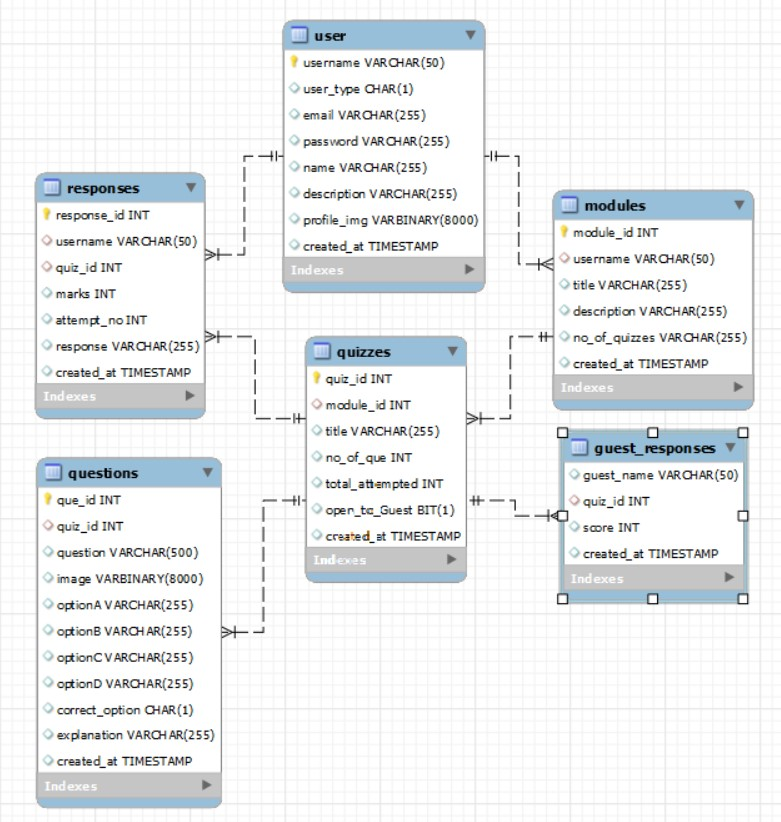
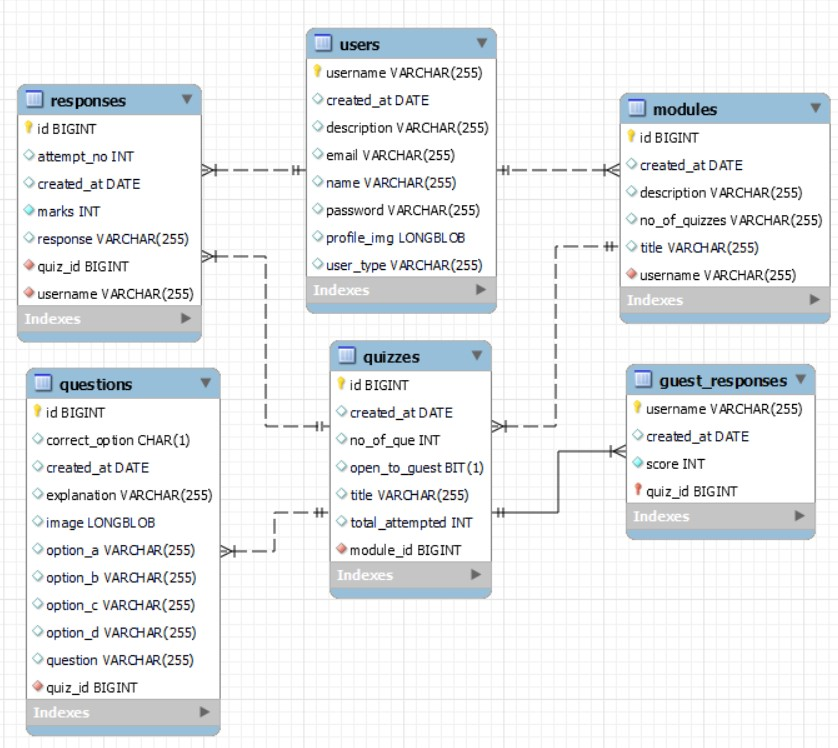
Entities Updated

diff --git a/quiz-management-system/src/main/java/com/app/entities/GuestEntity.java b/quiz-management-system/src/main/java/com/app/entities/GuestEntity.java
@@ -1,0 +1,49 @@
+package com.app.entities;
+
+import java.io.Serializable;
+import java.util.Objects;
+
+import javax.persistence.Embeddable;
+import javax.persistence.ForeignKey;
+import javax.persistence.JoinColumn;
+import javax.persistence.ManyToOne;
+
+import org.hibernate.annotations.ManyToAny;
+
+import lombok.AllArgsConstructor;
+import lombok.Getter;
+import lombok.NoArgsConstructor;
+import lombok.Setter;
+import lombok.ToString;
+
+
+@Getter
+@Setter
+@AllArgsConstructor
+@NoArgsConstructor
+@ToString(callSuper = true)
+@Embeddable
+public class GuestEntity implements Serializable {
+	@ManyToOne
+	@JoinColumn(name = "quiz_id", nullable = false, foreignKey = @ForeignKey(name = "fk_guestkey_quiz"))
+	private Quiz quiz;
+	
+	private String username;
+	
+	@Override
+	public int hashCode() {
+		return Objects.hash(username, quiz);
+	}
+	
+	@Override
+	public boolean equals(Object obj) {
+		if (this == obj)
+			return true;
+		if (obj == null)
+			return false;
+		if (getClass() != obj.getClass())
+			return false;
+		GuestEntity other = (GuestEntity) obj;
+		return Objects.equals(username, other.username) && Objects.equals(quiz, other.quiz);
+	}
+}

diff --git a/quiz-management-system/src/main/java/com/app/entities/User.java b/quiz-management-system/src/main/java/com/app/entities/User.java
@@ -12,17 +12,23 @@ import lombok.*;
 @Setter
 @AllArgsConstructor
 @NoArgsConstructor
-@ToString
-public class User {
-    @Id
+@ToString(callSuper = true)
+public class User{
+
+	@Id
     private String username;
+	
+    @Column(name = "user_type")
+    private String userType;
+
     private String email;
     private String password;
-    private String firstName;
-    private String lastName;
+    private String name;
+    private String description;
 
     @Lob
-    private byte[] profileImage;
+    @Column(name = "profile_img")
+    private byte[] profileImg;
 
     @Column(name = "created_at")
     private LocalDate createdAt;

diff --git a/quiz-management-system/src/main/java/com/app/entities/Response.java b/quiz-management-system/src/main/java/com/app/entities/Response.java
@@ -15,7 +15,9 @@ import lombok.*;
 @ToString(callSuper = true)
 public class Response extends BaseEntity{
 
-    private String username;
+    @ManyToOne
+    @JoinColumn(name = "username", nullable = false, foreignKey = @ForeignKey(name = "fk_response_user"))
+    private User user;
 
     @ManyToOne
     @JoinColumn(name = "quiz_id", nullable = false, foreignKey = @ForeignKey(name = "fk_response_quiz"))
@@ -32,4 +34,3 @@ public class Response extends BaseEntity{
     private LocalDate createdAt;
 
 }
-

diff --git a/quiz-management-system/src/main/java/com/app/entities/GuestResponse.java b/quiz-management-system/src/main/java/com/app/entities/GuestResponse.java
@@ -13,14 +13,10 @@ import lombok.*;
 @AllArgsConstructor
 @NoArgsConstructor
 @ToString(callSuper = true)
-public class GuestResponse extends BaseEntity{
-
-    @ManyToOne
-    @JoinColumns({
-        @JoinColumn(name = "guest_name", referencedColumnName = "username"),
-        @JoinColumn(name = "quiz_id", referencedColumnName = "quizId")
-    })
-    private Quiz quiz;
+public class GuestResponse{
+    
+    @EmbeddedId
+    private GuestEntity key;
 
     private int score;
 

diff --git a/quiz-management-system/src/main/java/com/app/entities/Module.java b/quiz-management-system/src/main/java/com/app/entities/Module.java
@@ -16,8 +16,8 @@ import lombok.*;
 public class Module extends BaseEntity{
 
     @ManyToOne
-    @JoinColumn(name = "admin_id", nullable = false, foreignKey = @ForeignKey(name = "fk_module_admin"))
-    private Admin admin;
+    @JoinColumn(name = "username", nullable = false, foreignKey = @ForeignKey(name = "fk_module_user"))
+    private User username;
 
     private String title;
     private String description;

diff --git a/quiz-management-system/src/main/java/com/app/entities/Quiz.java b/quiz-management-system/src/main/java/com/app/entities/Quiz.java
@@ -29,10 +29,7 @@ public class Quiz extends BaseEntity{
     @Column(name = "open_to_guest")
     private Boolean openToGuest;
 
-    private String hashtags;
-
     @Column(name = "created_at")
     private LocalDate createdAt;
 
 }
-
